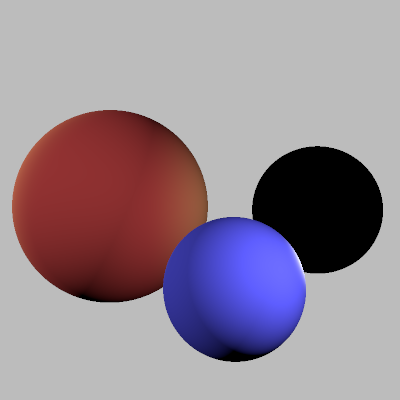
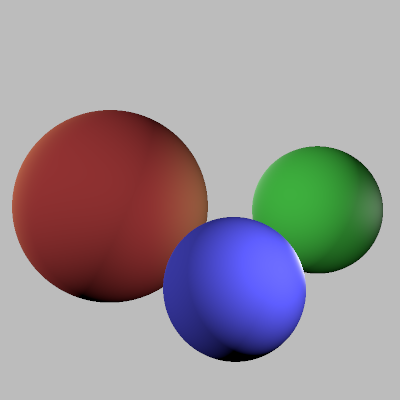
Direct needed to be imporved but all balls rendered.

Changed region(s): [[0.63, 0.36, 0.96, 0.69]]

diff --git a/src/shapes/sphere.cpp b/src/shapes/sphere.cpp
@@ -31,9 +31,8 @@ void Sphere::intersect(const Ray &ray, Hit &hit) const {
   float b = 2 * dot;
   float c = xpn * xpn - m_radius * m_radius;
 
-
   float delta = b*b - 4 * a * c;
-  // cout << "Delta: " << delta << endl;
+
   if (delta == 0) {
     hit.t = - b / (2 * a);
     hit.shape = this;

diff --git a/src/shapes/plane.cpp b/src/shapes/plane.cpp
@@ -15,8 +15,6 @@ void Plane::intersect(const Ray &ray, Hit &hit) const {
   Vector3f n = m_normal;
   Point3f o = ray.origin;
 
-  // float equation = (o.dot(n) + a.dot(n)) + hit.t*(d.dot(n));
-
   if (d.dot(n) == 0) 
     return;
 

diff --git a/README.md b/README.md
@@ -39,7 +39,6 @@
     }
   }
 ```
-<div style="page-break-after: always;"></div>
 
 ### 1.2. Sphères. 
 
@@ -57,7 +56,6 @@
 
   float delta = b*b - 4 * a * c;
 ```
-<div style="page-break-after: always;"></div>
 
 ### 1.3. Première image. 
 
@@ -77,8 +75,6 @@
 <p align="center">
     <img src="troisSpheres_flat.png" float="auto">
 </p>
-
-<div style="page-break-after: always;"></div>
 
 ### 1.4. Plans. 
 
@@ -107,8 +103,6 @@
     <img src="petanque_flat.png" float="auto">
 </p>
 
-<div style="page-break-after: always;"></div>
-
 ## 2. Éclairage local. 
 
 ### 2.1. Normales 
@@ -130,8 +124,6 @@
 <p align="center">
     <img src="troisSpheres_normal.png" float="auto">
 </p>
-
-<div style="page-break-after: always;"></div>
 
 ### 2.2. Calcul de l'éclairage. 
 
